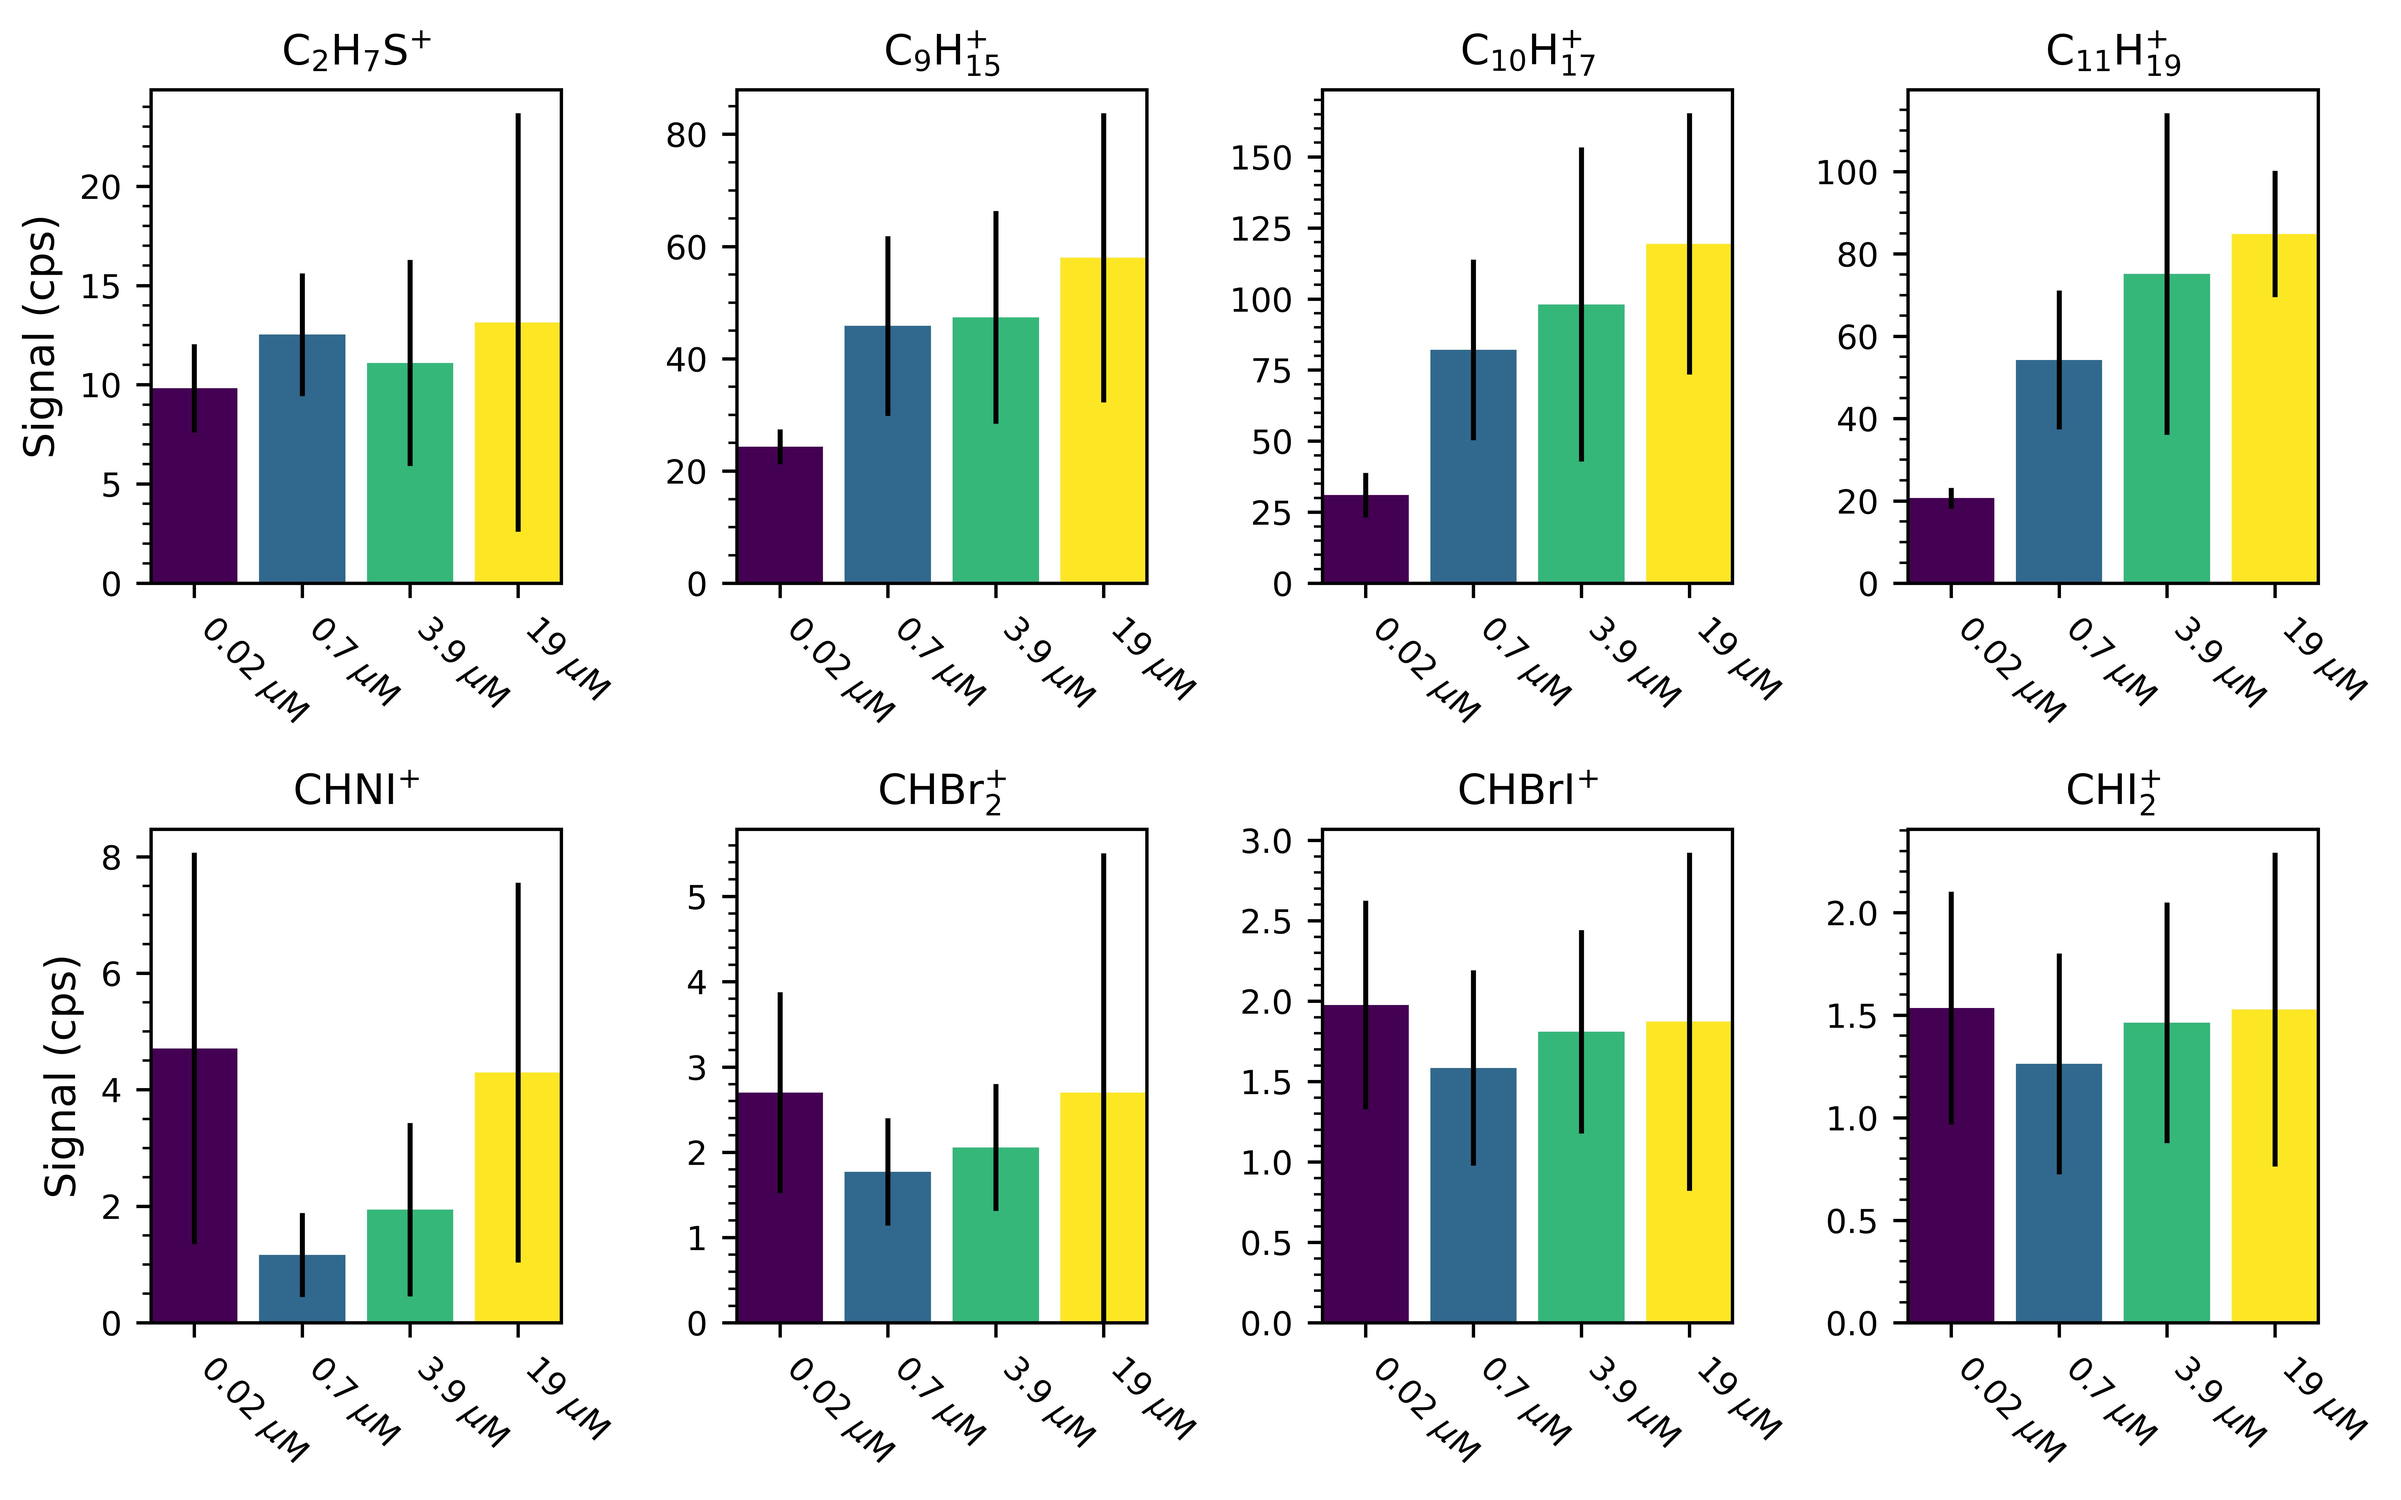
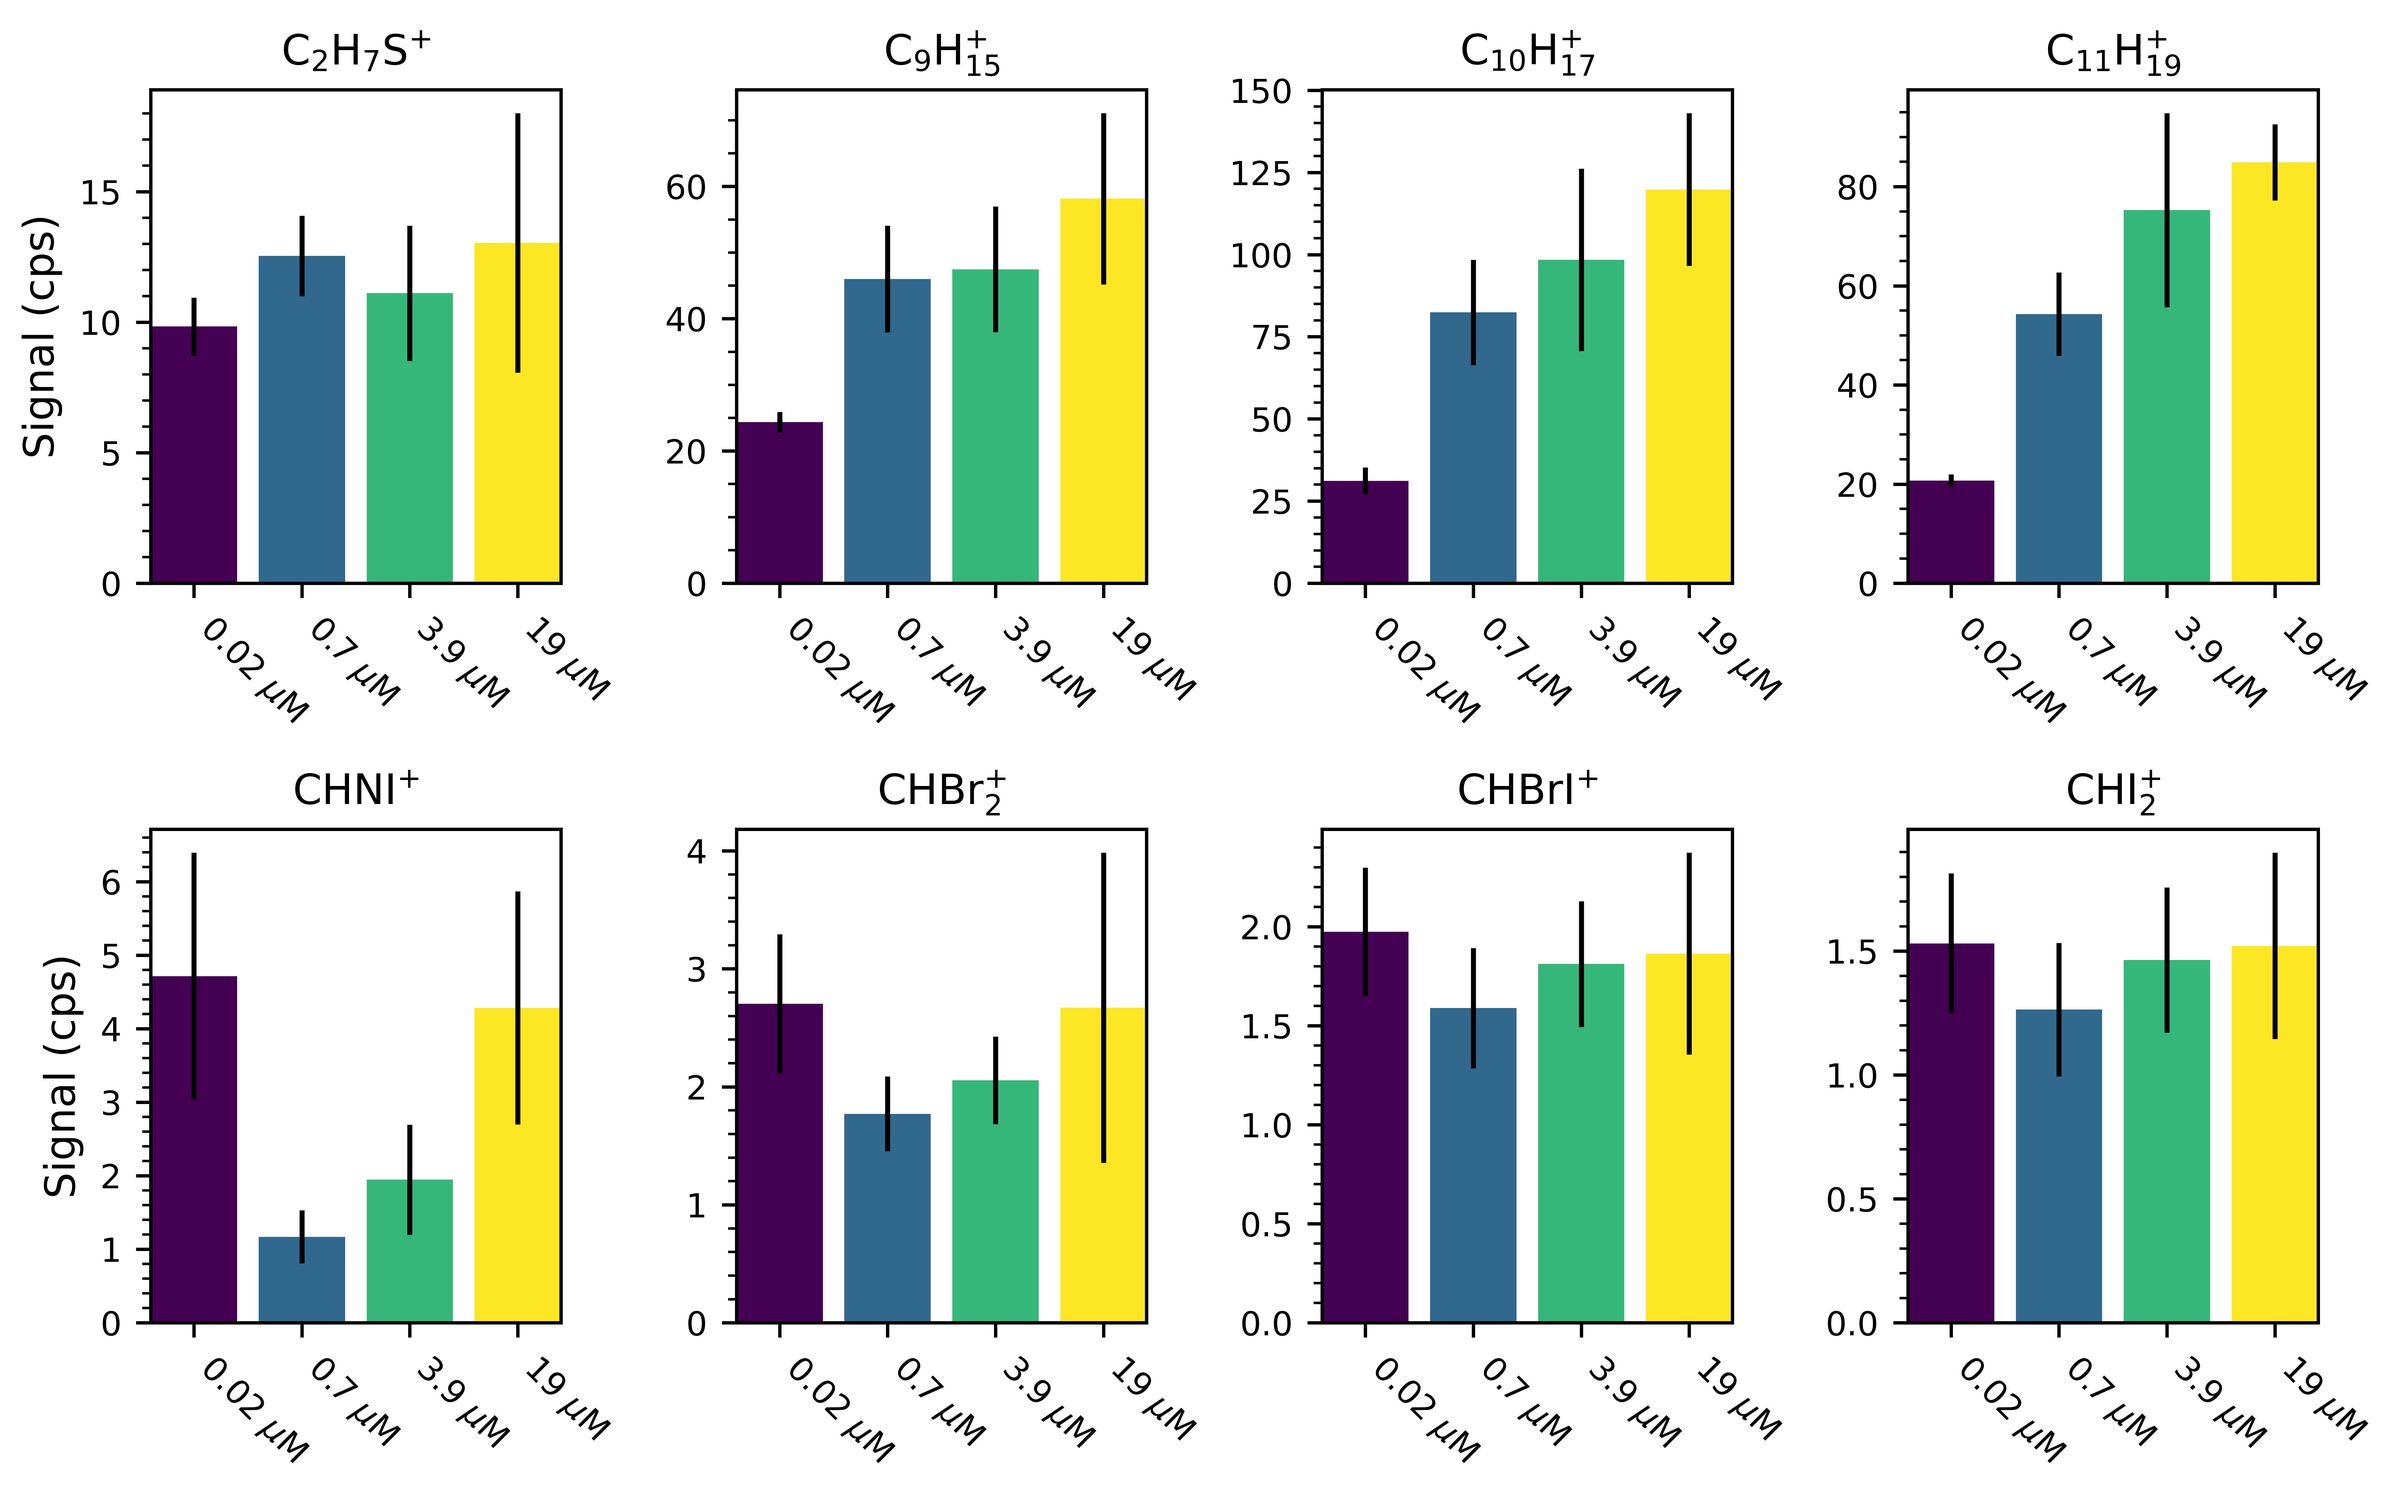
Update

diff --git a/plot_functions.py b/plot_functions.py
@@ -37,16 +37,22 @@ def plot_inset(ax, height, loc, bb2a, plot_width, xdata, ydata, width, bar, time
 
     return artist, inset_ax
 
-def plot_barchart(axes, means, stds, xticks, ax_label):
+def plot_barchart(ax, means, stds, xticks, ax_label):
     n_lines = len(xticks)
     cmap = mpl.colormaps['viridis']
     colors = cmap(np.linspace(0, 1, n_lines))
 
+    ax.bar(xticks, means, yerr = stds/np.sqrt(len(stds))
+           , color = colors)
+    ax.set_ylabel(ax_label)
+    ax.set_xticklabels(ax.get_xticklabels(), rotation=-45, ha = 'left')
+    ax.tick_params(axis = 'x', which = 'minor', bottom = False)
+
+    return
+
+def plot_multi_barchart(axes, means, stds, xticks, ax_label):
     for ax, key in zip(axes, means.keys()):
-        ax.bar(xticks, means[key], yerr = stds[key], color = colors)
-        ax.set_ylabel(ax_label)
-        ax.set_xticklabels(ax.get_xticklabels(), rotation=-45, ha = 'left')
-        ax.tick_params(axis = 'x', which = 'minor', bottom = False)
+        plot_barchart(ax, means[key], stds[key], xticks, ax_label)
 
     return
 
